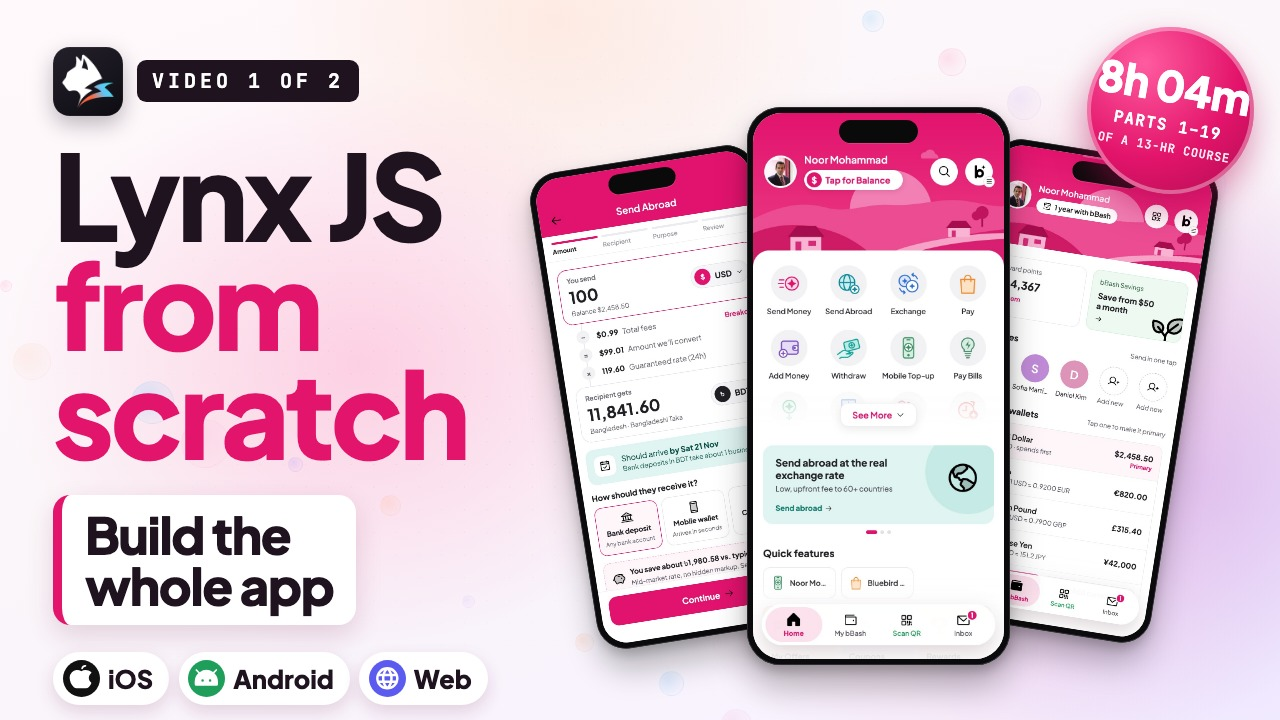
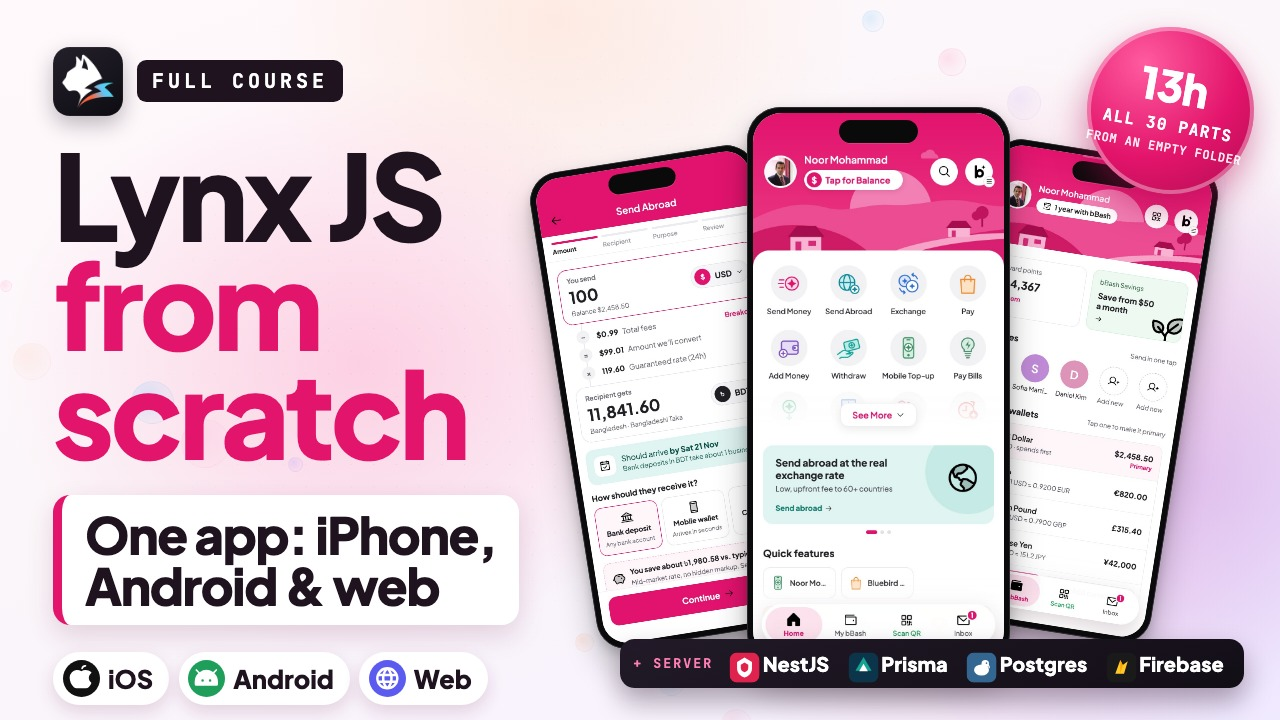
Link the full course video and the finished source code

diff --git a/README.md b/README.md
@@ -1,6 +1,6 @@
 <p align="center">
-  <a href="https://www.youtube.com/@reactjsbd">
-    <img src=".github/images/banner.jpg" alt="Lynx JS from Scratch: build bBash Global, a real wallet app for iOS, Android and the web" width="100%" />
+  <a href="https://youtu.be/FQLa16GoUQw">
+    <img src=".github/images/banner.jpg" alt="Lynx JS Full Course: build bBash Global, a real wallet app for iOS, Android and the web. Watch on YouTube." width="100%" />
   </a>
 </p>
 
@@ -12,6 +12,11 @@
 </p>
 
 <p align="center">
+  <a href="https://youtu.be/FQLa16GoUQw"><img src="https://img.shields.io/badge/▶%20Watch%20the%20full%20course-13%20hours%20on%20YouTube-FF0000?style=for-the-badge&logo=youtube&logoColor=white" alt="Watch the full course: 13 hours on YouTube" /></a>
+  <a href="https://buymeacoffee.com/reactbd/e/601029"><img src="https://img.shields.io/badge/Get%20the%20full%20source%20code-App%20%2B%20Server%20%2B%20iOS%20%2B%20Android%20%2B%20Web-FFDD00?style=for-the-badge&logo=buymeacoffee&logoColor=black" alt="Get the full source code: app, server, iOS, Android and web" /></a>
+</p>
+
+<p align="center">
   <a href="https://www.youtube.com/@reactjsbd"><img src="https://img.shields.io/badge/YouTube-@reactjsbd-FF0000?logo=youtube&logoColor=white" alt="YouTube @reactjsbd" /></a>
   <img src="https://img.shields.io/badge/Lynx-ReactLynx-E3146B" alt="Lynx and ReactLynx" />
   <img src="https://img.shields.io/badge/TypeScript-3178C6?logo=typescript&logoColor=white" alt="TypeScript" />
@@ -19,6 +24,11 @@
 </p>
 
 ---
+
+> [!IMPORTANT]
+> **▶ Watch the course:** [Lynx JS Full Course: Build a Real Wallet App (13 Hours)](https://youtu.be/FQLa16GoUQw). Every file typed and explained on screen, from an empty folder to iPhone, Android and the web.
+>
+> **💻 Want the finished project?** [Get the complete bBash Global source code](https://buymeacoffee.com/reactbd/e/601029): the Lynx app, the NestJS server, the native iPhone and Android hosts, Lynx for Web, 44 tests, and step-by-step setup guides. No keys included; every `.env` value says where to get it.
 
 ## What this is
 
@@ -82,6 +92,11 @@ Copy the rest the same way when its lesson comes up, so your project grows in th
 - The data files, illustrations and app icons are the course's own, here for you to learn with and build the course project. The photos in `home.ts` are loaded from Unsplash at run time, under the Unsplash License.
 
 ## The course
+
+| | |
+| --- | --- |
+| ▶ **Full course (free)** | **[Lynx JS Full Course: Build a Real Wallet App (13 Hours)](https://youtu.be/FQLa16GoUQw)** |
+| 💻 **Finished source code** | **[bBash Global: Lynx JS Wallet App for iOS, Android & Web + NestJS API](https://buymeacoffee.com/reactbd/e/601029)** |
 
 - YouTube: [@reactjsbd](https://www.youtube.com/@reactjsbd)
 - Medium: [@reactbd](https://medium.com/@reactbd)
